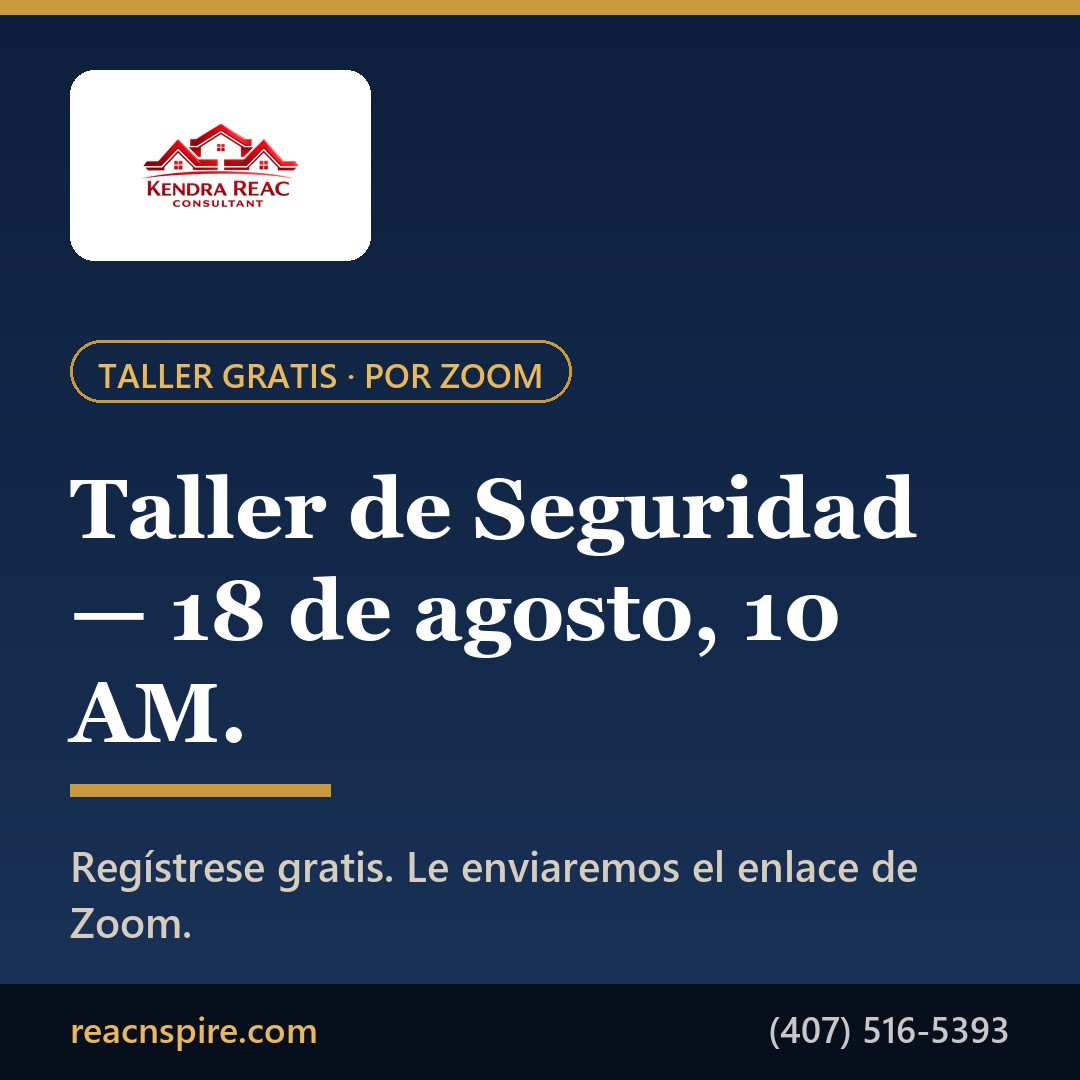
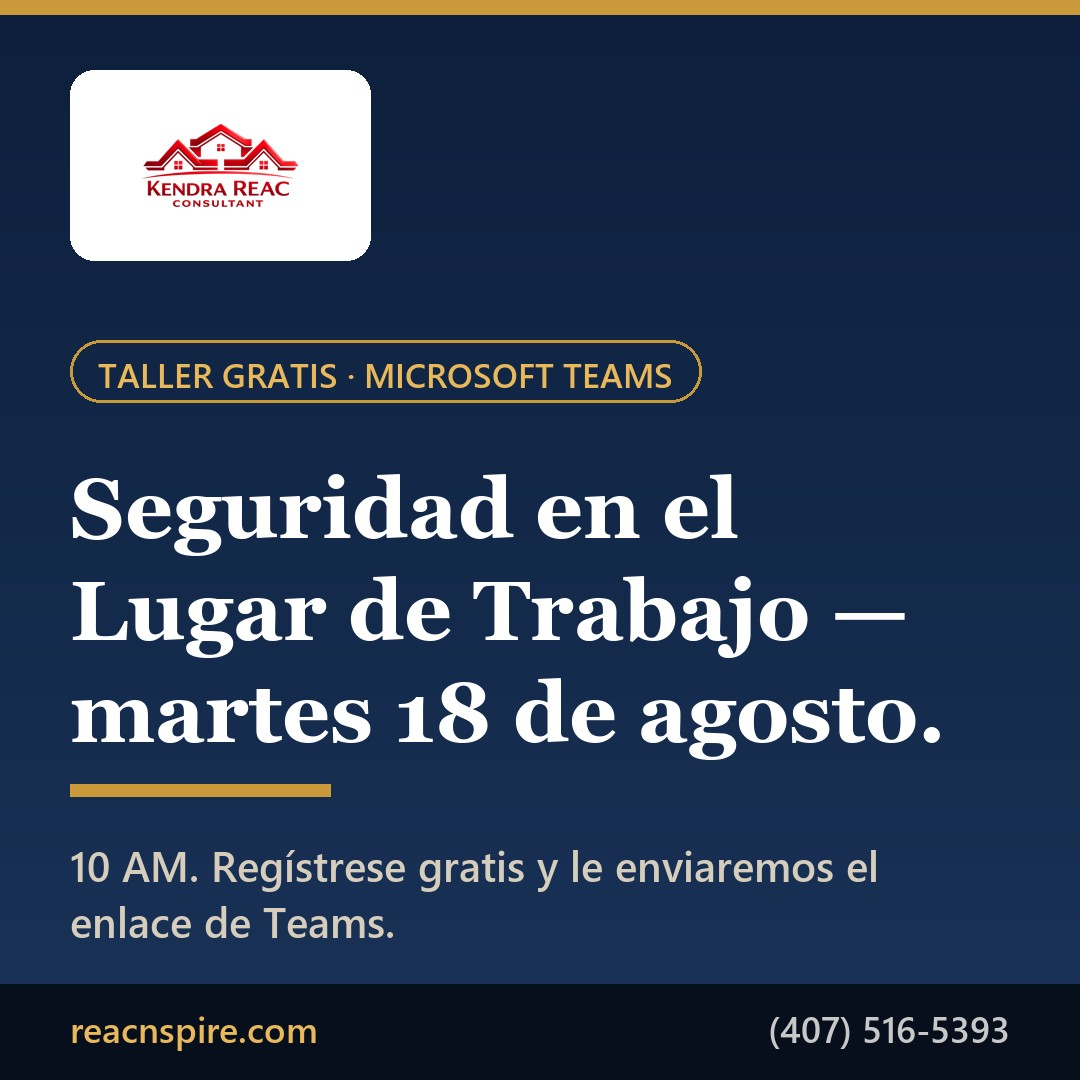
Correct workshop: Microsoft Teams (not Zoom), title Seguridad en el Lugar de Trabajo, Tue Aug 18

Changed region(s): [[0.0611, 0.4278, 0.8861, 0.7028], [0.0611, 0.7639, 0.8556, 0.8861], [0.3361, 0.3056, 0.6722, 0.3972]]

diff --git a/taller-seguridad/index.html b/taller-seguridad/index.html
@@ -4,13 +4,13 @@
 <meta charset="UTF-8">
 <meta name="viewport" content="width=device-width, initial-scale=1.0">
 <title>Registración — Taller de Seguridad GRATIS | Kendra REAC Consultant</title>
-<meta name="description" content="Regístrese GRATIS para el Taller de Seguridad de Kendra REAC Consultant — 18 de agosto de 2026, 10:00 AM a 11:30 AM. Una vez registrado, le enviaremos el enlace de Zoom.">
+<meta name="description" content="Regístrese GRATIS para el Taller de Seguridad de Kendra REAC Consultant — 18 de agosto de 2026, 10:00 AM a 11:30 AM. Una vez registrado, le enviaremos el enlace de Microsoft Teams.">
 <meta name="robots" content="index, follow">
 <link rel="canonical" href="https://reacnspire.com/taller-seguridad/">
 <meta property="og:type" content="website">
 <meta property="og:url" content="https://reacnspire.com/taller-seguridad/">
 <meta property="og:title" content="Registración — Taller de Seguridad GRATIS">
-<meta property="og:description" content="18 de agosto de 2026, 10:00 AM–11:30 AM. Regístrese gratis y le enviaremos el enlace de Zoom.">
+<meta property="og:description" content="18 de agosto de 2026, 10:00 AM–11:30 AM. Regístrese gratis y le enviaremos el enlace de Microsoft Teams.">
 <meta property="og:image" content="https://reacnspire.com/og-image.jpg">
 <meta property="og:image:width" content="1200">
 <meta property="og:image:height" content="630">
@@ -60,14 +60,16 @@
 
 <header class="hero">
   <div class="wrap">
-    <span class="badge">🎓 Evento GRATIS por Zoom</span>
+    <span class="badge">🎓 Evento GRATIS por Microsoft Teams</span>
     <h1>Registración para el <span class="free">Taller de Seguridad GRATIS</span></h1>
+    <p style="font-size:18px;color:rgba(255,255,255,.85);margin-bottom:4px;">«Seguridad en el Lugar de Trabajo»</p>
+    <p style="font-size:14px;color:rgba(255,255,255,.6);">Presentado por Sandra Romero-Negron · Kendra REAC Consultant, Inc.</p>
     <div class="event">
-      <div class="card"><div class="lbl">Fecha</div><div class="val">18 de agosto, 2026</div></div>
+      <div class="card"><div class="lbl">Fecha</div><div class="val">Martes 18 de agosto, 2026</div></div>
       <div class="card"><div class="lbl">Hora</div><div class="val">10:00 AM – 11:30 AM</div></div>
-      <div class="card"><div class="lbl">Plataforma</div><div class="val">Zoom (en línea)</div></div>
+      <div class="card"><div class="lbl">Plataforma</div><div class="val">Microsoft Teams (en línea)</div></div>
     </div>
-    <p class="note">📩 <strong>Una vez se registre, le enviaremos el enlace de Zoom</strong> a su correo electrónico.</p>
+    <p class="note">📩 <strong>Una vez se registre, le enviaremos el enlace de Microsoft Teams</strong> a su correo electrónico.</p>
   </div>
 </header>
 
@@ -75,12 +77,12 @@
   <div class="formcard">
     <div id="ok-msg" class="ok">
       <strong>¡Gracias por registrarse! ✅</strong>
-      Hemos recibido su registración para el Taller de Seguridad. Le enviaremos el enlace de Zoom a su correo electrónico antes del evento.
+      Hemos recibido su registración para el Taller de Seguridad. Le enviaremos el enlace de Microsoft Teams a su correo electrónico antes del evento.
     </div>
 
     <form id="reg-form" name="taller-registro" method="POST" data-netlify="true" netlify-honeypot="bot-field" action="/taller-seguridad/?exito=true#registro">
       <input type="hidden" name="form-name" value="taller-registro">
-      <input type="hidden" name="evento" value="Taller de Seguridad GRATIS — 18 de agosto de 2026, 10:00 AM">
+      <input type="hidden" name="evento" value="Seguridad en el Lugar de Trabajo — martes 18 de agosto de 2026, 10:00–11:30 AM EST (Microsoft Teams)">
       <p hidden><label>No llenar: <input name="bot-field"></label></p>
 
       <h2>Complete su registración</h2>

diff --git a/index.html b/index.html
@@ -861,8 +861,8 @@
   <div class="hero-left">
     <a href="/taller-seguridad/" style="display:flex;align-items:center;gap:12px;background:var(--gold);color:var(--navy);text-decoration:none;font-weight:600;padding:12px 18px;border-radius:10px;margin-bottom:20px;font-size:14px;line-height:1.35;box-shadow:0 6px 20px rgba(0,0,0,0.28);align-self:flex-start;max-width:100%;">
       <span style="font-size:24px;flex-shrink:0;">🎓</span>
-      <span data-lang="en"><strong>FREE Spanish Safety Workshop</strong> — Aug 18, 10 AM on Zoom. <span style="text-decoration:underline;">Register free →</span></span>
-      <span data-lang="es"><strong>Taller de Seguridad GRATIS</strong> — 18 de agosto, 10 AM por Zoom. <span style="text-decoration:underline;">Regístrese gratis →</span></span>
+      <span data-lang="en"><strong>FREE Spanish Safety Workshop</strong> — Tue Aug 18, 10 AM on Microsoft Teams. <span style="text-decoration:underline;">Register free →</span></span>
+      <span data-lang="es"><strong>Taller de Seguridad GRATIS</strong> — martes 18 de agosto, 10 AM por Microsoft Teams. <span style="text-decoration:underline;">Regístrese gratis →</span></span>
     </a>
     <img src="/kendra-logo-nobg.png" alt="Kendra REAC Consultant" style="width:min(90vw,470px);height:auto;object-fit:contain;align-self:flex-start;margin-bottom:24px;display:block;">
     <div class="hero-badge">HUD REAC Certified Since 2009</div>
